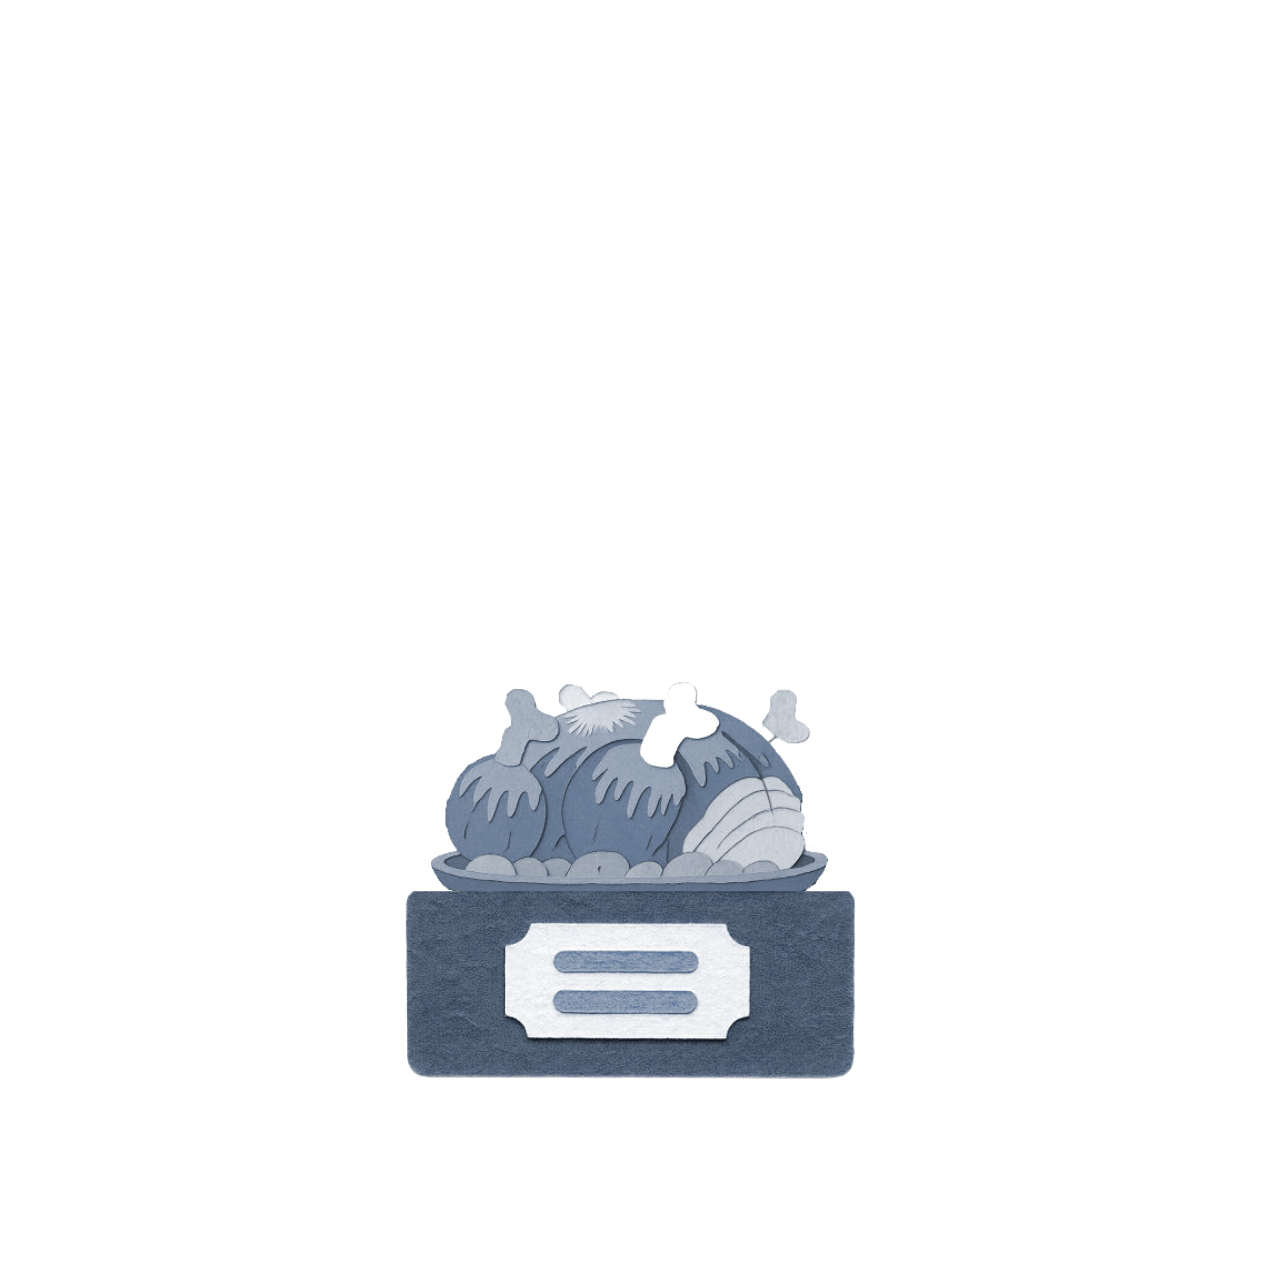
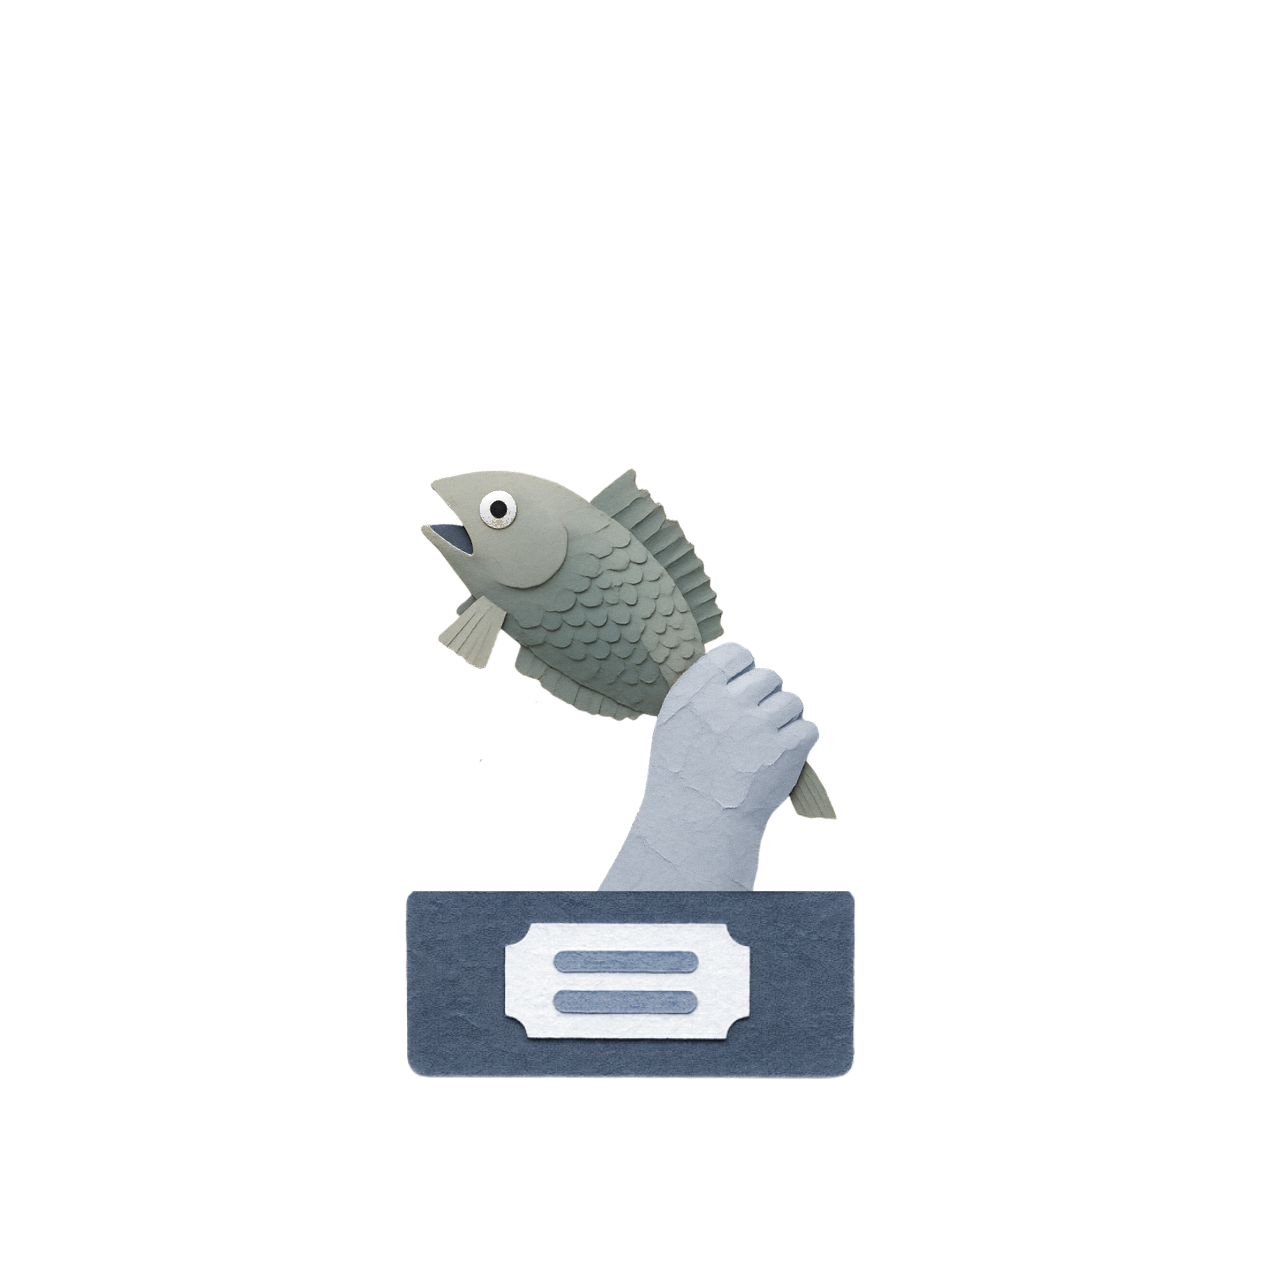
Trophee Gaulois Argent : poisson d'Ordralfabetix. Cache v178.

Changed region(s): [[0.3394, 0.3703, 0.6788, 0.7097]]

diff --git a/service-worker.js b/service-worker.js
@@ -3,7 +3,7 @@
 //   puis rafraichit en background. Prochain reload = nouvelle version.
 // - Requetes cross-origin (Firestore, iNaturalist, xeno-canto, Wikipedia, etc.) : reseau seul.
 // - Bump CACHE_VERSION quand on veut invalider volontairement.
-const CACHE_VERSION = 'v177-2026-09-15-gaulois-violet-cesar-couronne';
+const CACHE_VERSION = 'v178-2026-09-15-gaulois-argent-ordralfabetix';
 const CACHE_NAME = 'lmb-' + CACHE_VERSION;
 
 self.addEventListener('install', (e) => {
